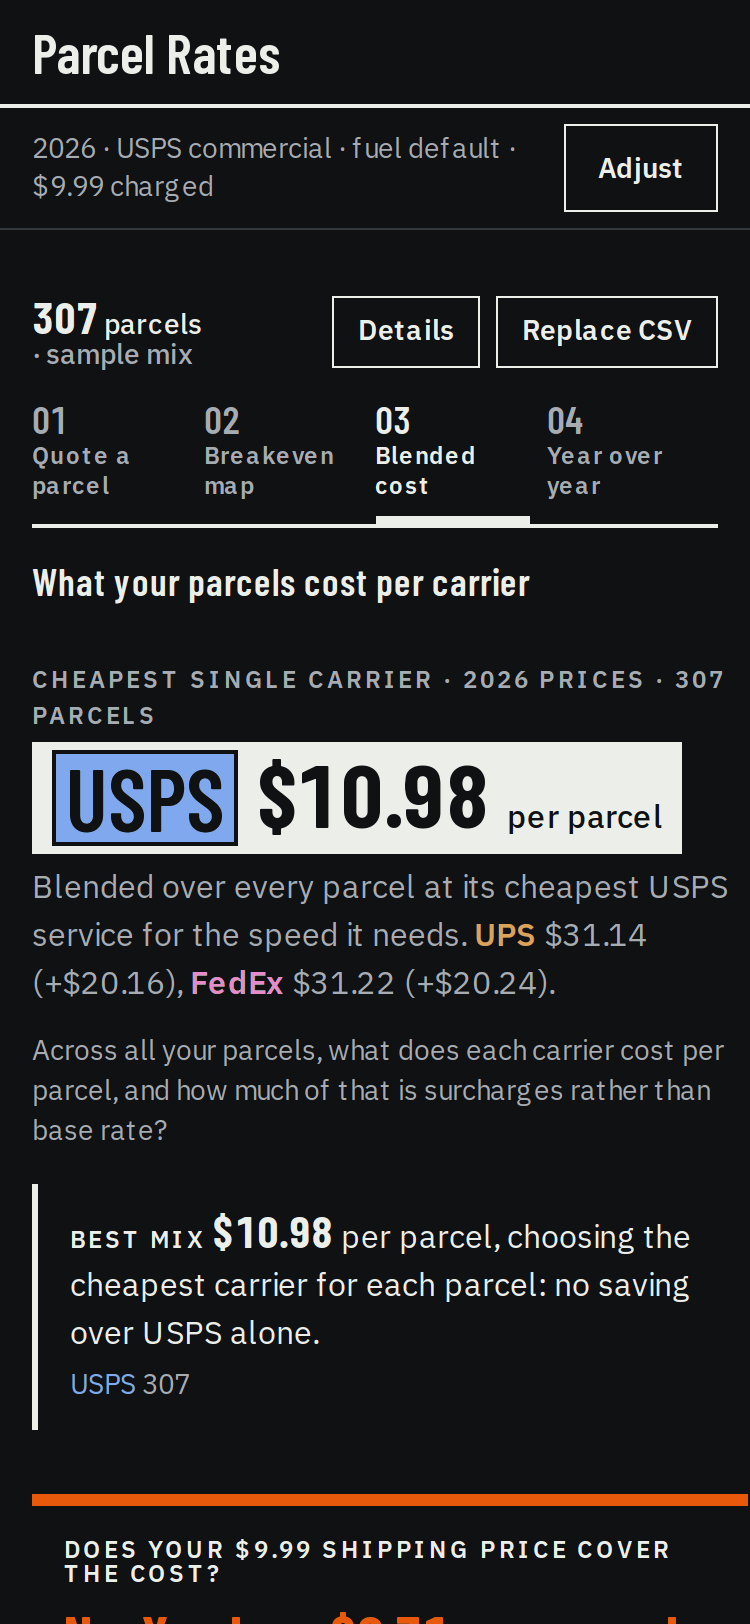
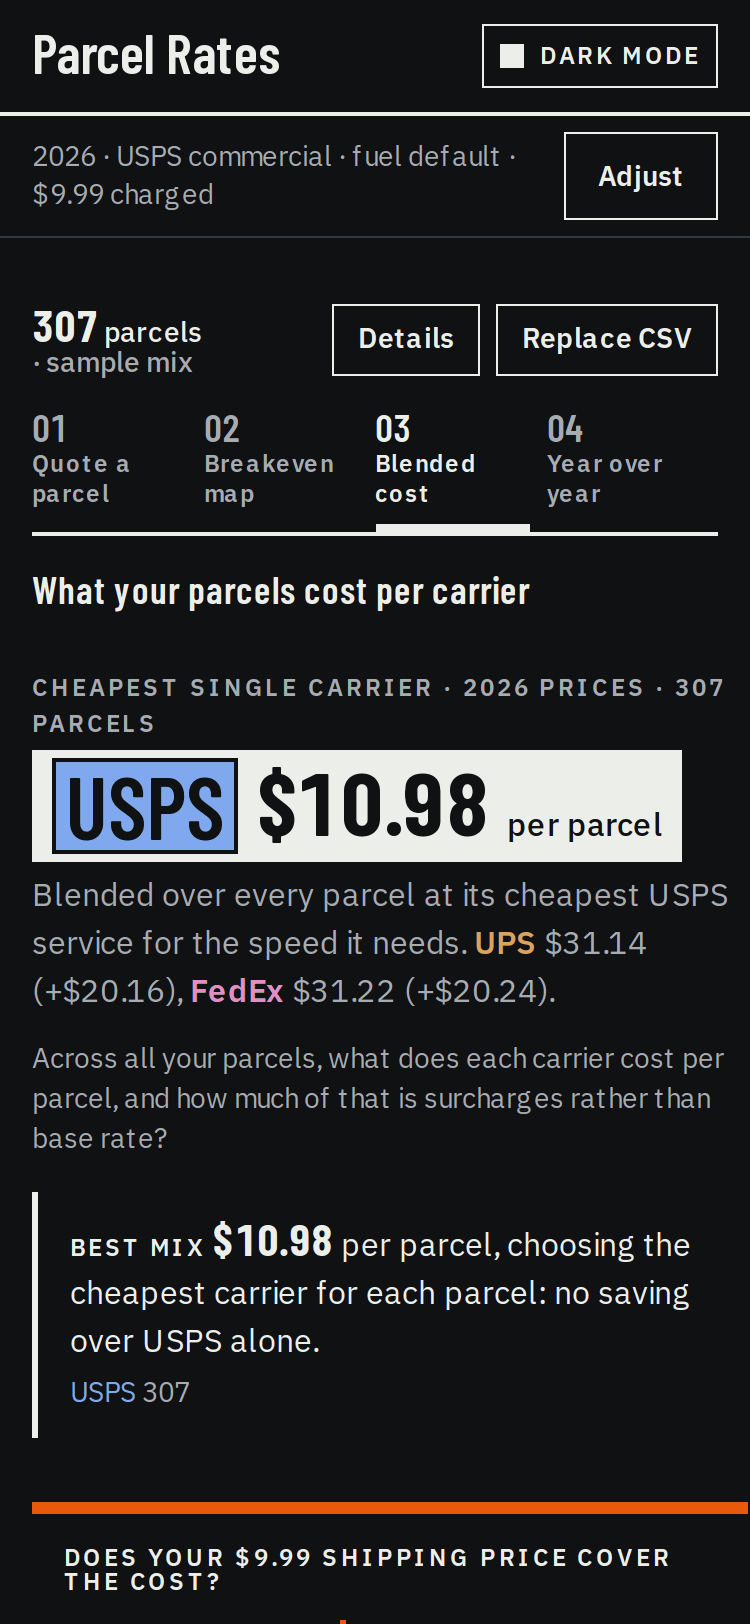
feat(ui): light/dark toggle in the masthead
The theme follows the system until the owner presses "Dark mode"; the choice is
saved in local storage. public/theme.js (same-origin, so the CSP allows it) sets
data-theme on <html> before the first paint; the dark tokens apply under
:root[data-theme="dark"], and chart colours re-resolve when it changes.

diff --git a/frontend/src/styles/tokens.css b/frontend/src/styles/tokens.css
@@ -78,41 +78,41 @@
   --q4-down: #2f6f86;
 }
 
-@media (prefers-color-scheme: dark) {
-  :root {
-    color-scheme: dark;
-    --paper: #0f1113;
-    --sheet: #191c1f;
-    --ink: #eceeea;
-    --ink-muted: #a6acb2;
-    --rule: #34393e;
-    --rule-strong: #eceeea;
-    --wash: #23272b;
+/* Dark: set by public/theme.js from the saved choice or the system setting, and by the
+   masthead toggle (src/lib/theme.ts). */
+:root[data-theme="dark"] {
+  color-scheme: dark;
+  --paper: #0f1113;
+  --sheet: #191c1f;
+  --ink: #eceeea;
+  --ink-muted: #a6acb2;
+  --rule: #34393e;
+  --rule-strong: #eceeea;
+  --wash: #23272b;
 
-    --carrier-usps: #7fa8ee;
-    --carrier-ups: #d9a35a;
-    --carrier-fedex: #e68ac9;
-    --carrier-usps-wash: #18233a;
-    --carrier-ups-wash: #2c2318;
-    --carrier-fedex-wash: #301a2b;
+  --carrier-usps: #7fa8ee;
+  --carrier-ups: #d9a35a;
+  --carrier-fedex: #e68ac9;
+  --carrier-usps-wash: #18233a;
+  --carrier-ups-wash: #2c2318;
+  --carrier-fedex-wash: #301a2b;
 
-    --accent: #e8590c;
-    --loss: #e8590c;
-    --profit: #6fcb94;
+  --accent: #e8590c;
+  --loss: #e8590c;
+  --profit: #6fcb94;
 
-    --mock: #e8b860;
-    --focus: #eceeea;
-    --focus-halo: #0f1113;
-    --shadow-sheet: 0 -12px 40px rgb(0 0 0 / 0.5);
-    --backdrop: rgb(0 0 0 / 0.6);
+  --mock: #e8b860;
+  --focus: #eceeea;
+  --focus-halo: #0f1113;
+  --shadow-sheet: 0 -12px 40px rgb(0 0 0 / 0.5);
+  --backdrop: rgb(0 0 0 / 0.6);
 
-    --q3-base: #6b7177;
-    --q3-sur-1: #7fd0d6;
-    --q3-sur-2: #4aa7b0;
-    --q3-sur-3: #2f7a82;
-    --q3-sur-4: #23565c;
-    --q3-fuel: #c4c8cc;
-    --q4-up: #e0b04a;
-    --q4-down: #6fb6cf;
-  }
+  --q3-base: #6b7177;
+  --q3-sur-1: #7fd0d6;
+  --q3-sur-2: #4aa7b0;
+  --q3-sur-3: #2f7a82;
+  --q3-sur-4: #23565c;
+  --q3-fuel: #c4c8cc;
+  --q4-up: #e0b04a;
+  --q4-down: #6fb6cf;
 }

diff --git a/frontend/src/components/ThemeToggle.test.tsx b/frontend/src/components/ThemeToggle.test.tsx
@@ -1,0 +1,33 @@
+import { afterEach, describe, expect, it } from "vitest";
+import { render, screen } from "@testing-library/react";
+import userEvent from "@testing-library/user-event";
+import { ThemeToggle } from "./ThemeToggle";
+import { THEME_KEY } from "../lib/theme";
+
+afterEach(() => {
+  document.documentElement.removeAttribute("data-theme");
+  window.localStorage.clear();
+});
+
+describe("ThemeToggle", () => {
+  it("starts from the theme already set and switches and remembers it", async () => {
+    document.documentElement.setAttribute("data-theme", "light");
+    render(<ThemeToggle />);
+    const toggle = screen.getByRole("button", { name: "Dark mode" });
+    expect(toggle).toHaveAttribute("aria-pressed", "false");
+    await userEvent.click(toggle);
+    expect(document.documentElement).toHaveAttribute("data-theme", "dark");
+    expect(window.localStorage.getItem(THEME_KEY)).toBe("dark");
+    expect(toggle).toHaveAttribute("aria-pressed", "true");
+    await userEvent.click(toggle);
+    expect(document.documentElement).toHaveAttribute("data-theme", "light");
+    expect(window.localStorage.getItem(THEME_KEY)).toBe("light");
+  });
+
+  it("follows a theme change made elsewhere (the system, before a choice is saved)", async () => {
+    document.documentElement.setAttribute("data-theme", "light");
+    render(<ThemeToggle />);
+    document.documentElement.setAttribute("data-theme", "dark");
+    expect(await screen.findByRole("button", { name: "Dark mode", pressed: true })).toBeInTheDocument();
+  });
+});

diff --git a/frontend/src/hooks/useCssColors.ts b/frontend/src/hooks/useCssColors.ts
@@ -1,8 +1,7 @@
 import { useEffect, useState } from "react";
 
-const DARK = "(prefers-color-scheme: dark)";
-
-/** Resolve CSS custom properties to concrete colours (for Recharts); re-resolves when the colour scheme flips. */
+/** Resolve CSS custom properties to concrete colours (for Recharts); re-resolves when the theme
+ *  flips (data-theme on <html>, set by public/theme.js and the masthead toggle). */
 export function useCssColors<K extends string>(vars: Record<K, string>): Record<K, string> {
   const read = () => {
     const style = typeof document === "undefined" ? null : getComputedStyle(document.documentElement);
@@ -14,11 +13,10 @@ export function useCssColors<K extends string>(vars: Record<K, string>): Record<
   const key = JSON.stringify(vars);
   useEffect(() => {
     setColors(read());
-    const mq = typeof window !== "undefined" && window.matchMedia ? window.matchMedia(DARK) : null;
-    if (!mq) return;
-    const onChange = () => setColors(read());
-    mq.addEventListener?.("change", onChange);
-    return () => mq.removeEventListener?.("change", onChange);
+    if (typeof MutationObserver === "undefined") return;
+    const observer = new MutationObserver(() => setColors(read()));
+    observer.observe(document.documentElement, { attributes: true, attributeFilter: ["data-theme"] });
+    return () => observer.disconnect();
     // eslint-disable-next-line react-hooks/exhaustive-deps
   }, [key]);
   return colors;

diff --git a/frontend/e2e/theme.spec.ts b/frontend/e2e/theme.spec.ts
@@ -1,0 +1,22 @@
+import { expect, test } from "@playwright/test";
+import { openApp } from "./helpers";
+
+test.describe("Light and dark mode", () => {
+  test("follows the system, then the owner's choice, which survives a reload", async ({ page }) => {
+    await page.emulateMedia({ colorScheme: "dark" });
+    await openApp(page);
+    const html = page.locator("html");
+    const toggle = page.getByRole("button", { name: "Dark mode" });
+    await expect(html).toHaveAttribute("data-theme", "dark");
+    await expect(toggle).toHaveAttribute("aria-pressed", "true");
+    const darkPaper = await page.evaluate(() => getComputedStyle(document.body).backgroundColor);
+
+    await toggle.click();
+    await expect(html).toHaveAttribute("data-theme", "light");
+    await expect(toggle).toHaveAttribute("aria-pressed", "false");
+    expect(await page.evaluate(() => getComputedStyle(document.body).backgroundColor)).not.toBe(darkPaper);
+
+    await openApp(page);
+    await expect(html).toHaveAttribute("data-theme", "light"); // the saved choice beats the dark system
+  });
+});

diff --git a/frontend/src/components/ThemeToggle.tsx b/frontend/src/components/ThemeToggle.tsx
@@ -1,0 +1,29 @@
+import { useEffect, useState } from "react";
+import { currentTheme, setTheme, type Theme } from "../lib/theme";
+
+/** "Dark mode" on or off; starts from the system setting until the owner chooses. */
+export function ThemeToggle() {
+  const [theme, setLocal] = useState<Theme>(currentTheme);
+  // public/theme.js follows the system until a choice is saved; mirror its changes.
+  useEffect(() => {
+    const observer = new MutationObserver(() => setLocal(currentTheme()));
+    observer.observe(document.documentElement, { attributes: true, attributeFilter: ["data-theme"] });
+    return () => observer.disconnect();
+  }, []);
+  const dark = theme === "dark";
+  return (
+    <button
+      type="button"
+      className="theme-toggle"
+      aria-pressed={dark}
+      onClick={() => {
+        const next: Theme = dark ? "light" : "dark";
+        setTheme(next);
+        setLocal(next);
+      }}
+    >
+      <span className="theme-toggle__box" aria-hidden="true" />
+      Dark mode
+    </button>
+  );
+}

diff --git a/frontend/public/theme.js b/frontend/public/theme.js
@@ -1,0 +1,23 @@
+/* Sets data-theme on <html> before the first paint: the owner's saved choice, else the system
+   setting (followed live until a choice is saved). External, not inline, because the CSP
+   allows only same-origin scripts. src/lib/theme.ts saves the choice under the same key. */
+(function () {
+  var KEY = "parcel-rates-theme";
+  var root = document.documentElement;
+  var system = window.matchMedia ? window.matchMedia("(prefers-color-scheme: dark)") : null;
+  function saved() {
+    try {
+      var v = window.localStorage.getItem(KEY);
+      return v === "light" || v === "dark" ? v : null;
+    } catch (e) {
+      return null;
+    }
+  }
+  function apply() {
+    root.setAttribute("data-theme", saved() || (system && system.matches ? "dark" : "light"));
+  }
+  apply();
+  if (system && system.addEventListener) system.addEventListener("change", function () {
+    if (!saved()) apply();
+  });
+})();

diff --git a/frontend/src/App.tsx b/frontend/src/App.tsx
@@ -5,6 +5,7 @@ import { ControlRail, assumptionsLine } from "./components/controls/ControlRail"
 import { useParcelSetUi } from "./components/parcels/ParcelSetPanel";
 import { QuestionTabs } from "./components/QuestionTabs";
 import { Footer } from "./components/Footer";
+import { ThemeToggle } from "./components/ThemeToggle";
 import { useParcelSet } from "./hooks/useParcelSet";
 import { useUrlState } from "./hooks/useUrlState";
 import { useMediaQuery } from "./hooks/useMediaQuery";
@@ -77,6 +78,7 @@ export function App() {
             <span className="masthead__barcode" aria-hidden="true" />
             {state.controls.year} published list prices · USPS, UPS, FedEx
           </p>
+          <ThemeToggle />
           <p className="masthead__deck">
             Which carrier is cheapest for each kind of parcel you ship, and does your flat price still cover the real cost?
           </p>

diff --git a/frontend/src/styles/layout.css b/frontend/src/styles/layout.css
@@ -58,6 +58,44 @@
   );
 }
 
+/* Light / dark: a small labelled box, filled when dark mode is on. */
+.theme-toggle {
+  margin-left: auto;
+  align-self: center;
+  display: inline-flex;
+  align-items: center;
+  gap: var(--space-2);
+  min-height: 2rem;
+  padding: var(--space-1) var(--space-2);
+  border: 1px solid var(--ink);
+  background: transparent;
+  font-size: var(--text-xs);
+  font-weight: 600;
+  letter-spacing: 0.1em;
+  text-transform: uppercase;
+  cursor: pointer;
+}
+
+.theme-toggle:hover {
+  background: var(--wash);
+}
+
+.theme-toggle__box {
+  width: 0.75rem;
+  height: 0.75rem;
+  border: 1.5px solid currentColor;
+}
+
+.theme-toggle[aria-pressed="true"] .theme-toggle__box {
+  background: currentColor;
+}
+
+@media (pointer: coarse) {
+  .theme-toggle {
+    min-height: 44px;
+  }
+}
+
 .masthead__deck {
   flex-basis: 100%;
   margin-top: var(--space-1);

diff --git a/frontend/src/lib/theme.ts b/frontend/src/lib/theme.ts
@@ -1,0 +1,19 @@
+/** Light or dark, as set on <html data-theme> by public/theme.js (saved choice or system). */
+export type Theme = "light" | "dark";
+
+/** Same key as public/theme.js. */
+export const THEME_KEY = "parcel-rates-theme";
+
+export function currentTheme(): Theme {
+  return document.documentElement.getAttribute("data-theme") === "dark" ? "dark" : "light";
+}
+
+/** Apply a theme now and remember it, so it wins over the system setting from then on. */
+export function setTheme(theme: Theme): void {
+  document.documentElement.setAttribute("data-theme", theme);
+  try {
+    window.localStorage.setItem(THEME_KEY, theme);
+  } catch {
+    // Private windows and blocked storage: the choice holds for this page only.
+  }
+}

diff --git a/frontend/index.html b/frontend/index.html
@@ -7,6 +7,7 @@
     <meta name="color-scheme" content="light dark" />
     <title>Parcel Rates</title>
     <link rel="icon" href="/favicon.svg" type="image/svg+xml" />
+    <script src="/theme.js"></script>
     <link rel="preconnect" href="https://fonts.googleapis.com" />
     <link rel="preconnect" href="https://fonts.gstatic.com" crossorigin />
     <link

diff --git a/frontend/DESIGN.md b/frontend/DESIGN.md
@@ -140,6 +140,15 @@ A 4 px base (`--space-1` … `--space-8`: 4, 8, 12, 16, 24, 32, 48, 72 px) with 
 deliberate jump to 48-72 px between sections, so sections read as zones.
 Corners are square. Separation comes from rules, not from boxes or shadows.
 
+## Light and dark
+
+The theme follows the system setting until the owner chooses: a "Dark mode" toggle at the
+right of the masthead (a small labelled box, filled when on, `aria-pressed`) switches it and
+remembers the choice in local storage. `public/theme.js`, a same-origin script in the head
+(the CSP forbids inline ones), sets `data-theme` on `<html>` before the first paint; the dark
+tokens apply under `:root[data-theme="dark"]`, and the charts re-read their colours when the
+attribute changes.
+
 ## Texture
 
 One small CSS-generated barcode mark (`repeating-linear-gradient` of uneven ink
